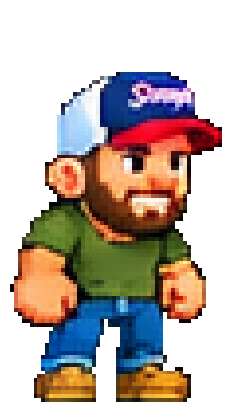
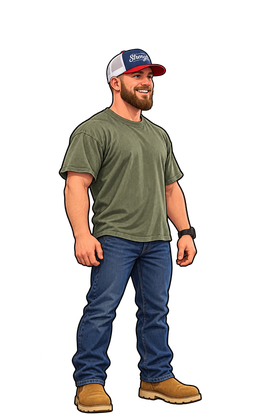
Redesign Josh and Tyler with true-to-reference proportions

diff --git a/game.js b/game.js
@@ -28,7 +28,7 @@
   function updateCharacterCards(){document.querySelectorAll('.character-card').forEach(card=>{const id=card.dataset.character,locked=!canSelect(id),status=card.querySelector('.character-status');card.disabled=locked;card.classList.toggle('locked',locked);card.setAttribute('aria-disabled',String(locked));if(locked){card.setAttribute('aria-label',`${id==='josh'?'Josh Lane':'Tyler'}, locked. ${id==='josh'?'Defeat the final boss to unlock.':'Win the final boss stage twice to unlock.'}`);if(status)status.textContent=id==='josh'?'🔒 Beat the final boss':'🔒 Win the final twice'}else{card.setAttribute('aria-label',`Choose ${id==='josh'?'Josh Lane':id[0].toUpperCase()+id.slice(1)}`);if(status)status.textContent='Unlocked & ready'}})}
   function awardBossVictory(bossId='boss1'){if(bossId!=='boss1')return null;unlocks.boss1Wins=Math.min(999,unlocks.boss1Wins+1);const rule=unlockConfig.rules.find(item=>item.bossId===bossId&&item.victory===unlocks.boss1Wins&&!unlocks[item.character]);if(rule){unlocks[rule.character]=true;pendingUnlock=rule.character;writeUnlocks(unlocks);updateCharacterCards();return rule}writeUnlocks(unlocks);return null}
   function showMenu(){running=false;updateCharacterCards();const prompt=document.getElementById('unlock-prompt');if(pendingUnlock){const name=pendingUnlock==='josh'?'Josh Lane':'Tyler';prompt.textContent=`${name} is unlocked — choose your new Safety Bro!`;prompt.hidden=false;pendingUnlock=''}else prompt.hidden=true;show('menu')}
-  function load(){characters.forEach(c=>poses.forEach(p=>{const img=new Image();img.src=`${c}-${p}.png?v=${c==='josh'||c==='tyler'?9:4}`;assets[`${c}-${p}`]=img}));const boss=new Image();boss.src='boss-final-intruder.png?v=7';assets.boss=boss;updateCharacterCards()}
+  function load(){characters.forEach(c=>poses.forEach(p=>{const img=new Image();img.src=`${c}-${p}.png?v=${c==='josh'||c==='tyler'?10:4}`;assets[`${c}-${p}`]=img}));const boss=new Image();boss.src='boss-final-intruder.png?v=7';assets.boss=boss;updateCharacterCards()}
   levels.forEach((stage,i)=>{stage.powerups=[{x:Math.min(stage.width-650,1180+i*170),y:315,type:i%2?'hardhat':'shield',got:false}];stage.secrets=i<3?[{x:Math.min(stage.width-900,2480+i*260),y:500,w:115,h:100,found:false}]:[]});
   function fresh(src){return {...src,platforms:src.platforms.map(x=>({...x})),movingPlatforms:(src.movingPlatforms||[]).map(x=>({...x})),radios:src.radios.map(x=>({...x,got:false})),hazards:src.hazards.map(x=>({...x})),enemies:src.enemies.map(x=>({...x,alive:true})),vests:src.vests.map(x=>({...x,got:false})),powerups:(src.powerups||[]).map(x=>({...x,got:false})),secrets:(src.secrets||[]).map(x=>({...x,found:false})),boss:src.boss?{...src.boss,alive:true,hp:src.boss.maxHp,shotTimer:1.5}:null,projectiles:[],exit:{...src.exit}}}
   function sizePlayer(big,keepFeet=true){const feet=player.y+player.h;player.big=big;player.w=big?92:66;player.h=big?150:105;if(keepFeet)player.y=feet-player.h}

diff --git a/index.html b/index.html
@@ -41,11 +41,11 @@
           <strong>NICK</strong><small>Quick &amp; Alert</small>
         </button>
         <button class="character-card locked" data-character="josh" disabled aria-disabled="true" aria-label="Josh Lane, locked. Defeat the final boss to unlock.">
-          <img src="josh-idle.png?v=9" alt="Josh Lane game character">
+          <img src="josh-idle.png?v=10" alt="Josh Lane game character">
           <strong>JOSH LANE</strong><small class="character-status">🔒 Beat the final boss</small>
         </button>
         <button class="character-card locked" data-character="tyler" disabled aria-disabled="true" aria-label="Tyler, locked. Win the final boss stage twice to unlock.">
-          <img src="tyler-idle.png?v=9" alt="Tyler game character">
+          <img src="tyler-idle.png?v=10" alt="Tyler game character">
           <strong>TYLER</strong><small class="character-status">🔒 Win the final twice</small>
         </button>
       </div>
@@ -81,6 +81,6 @@
     </section>
   </main>
   <footer>⚡ <a href="https://venmo.com/u/MTA-7777" target="_blank" rel="noopener">Buy Mike a C4 · @MTA-7777</a></footer>
-  <script src="game.js?v=9"></script>
+  <script src="game.js?v=10"></script>
 </body>
 </html>
